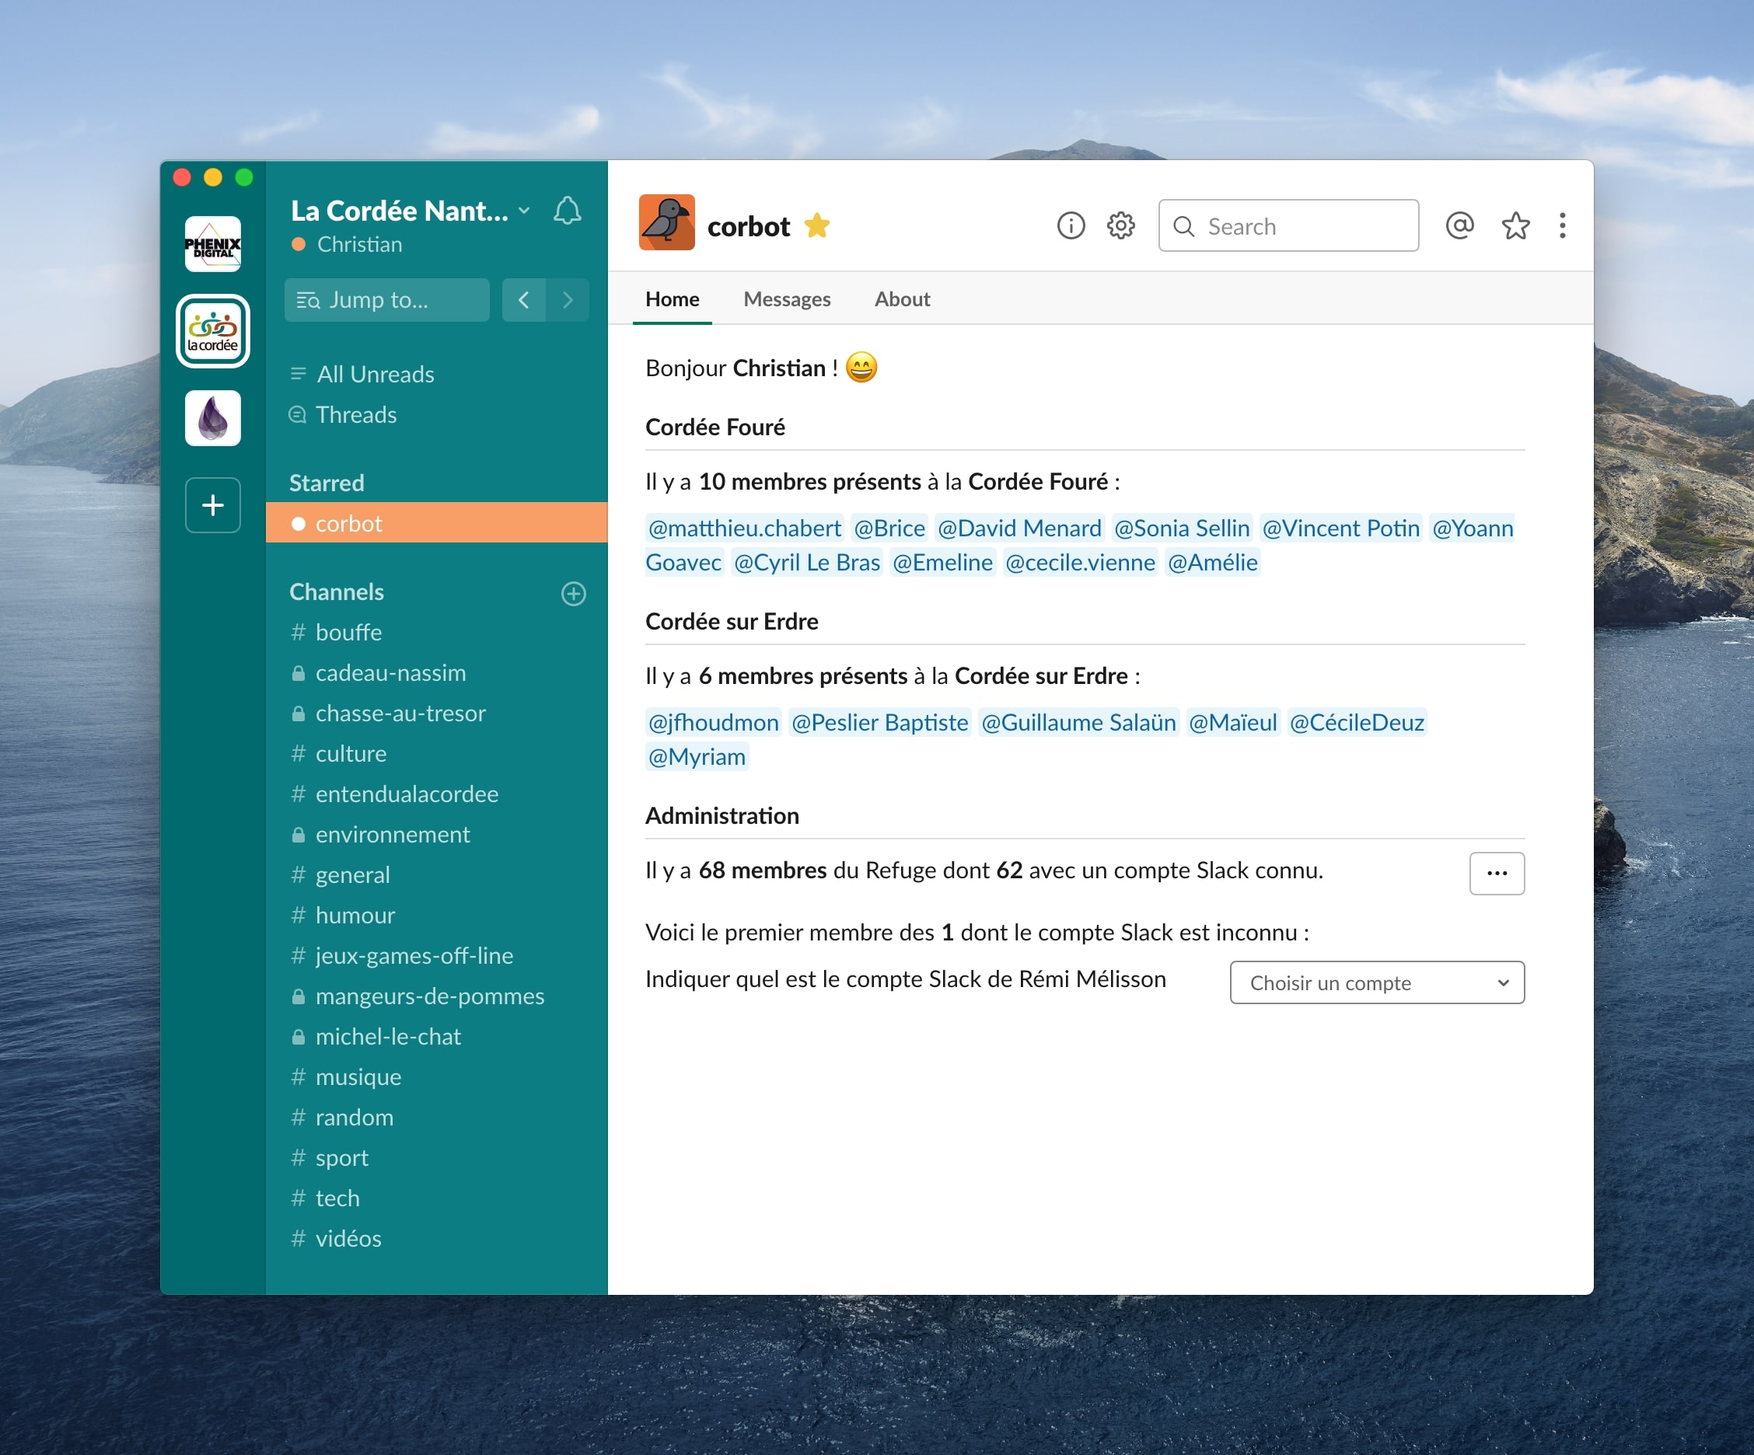
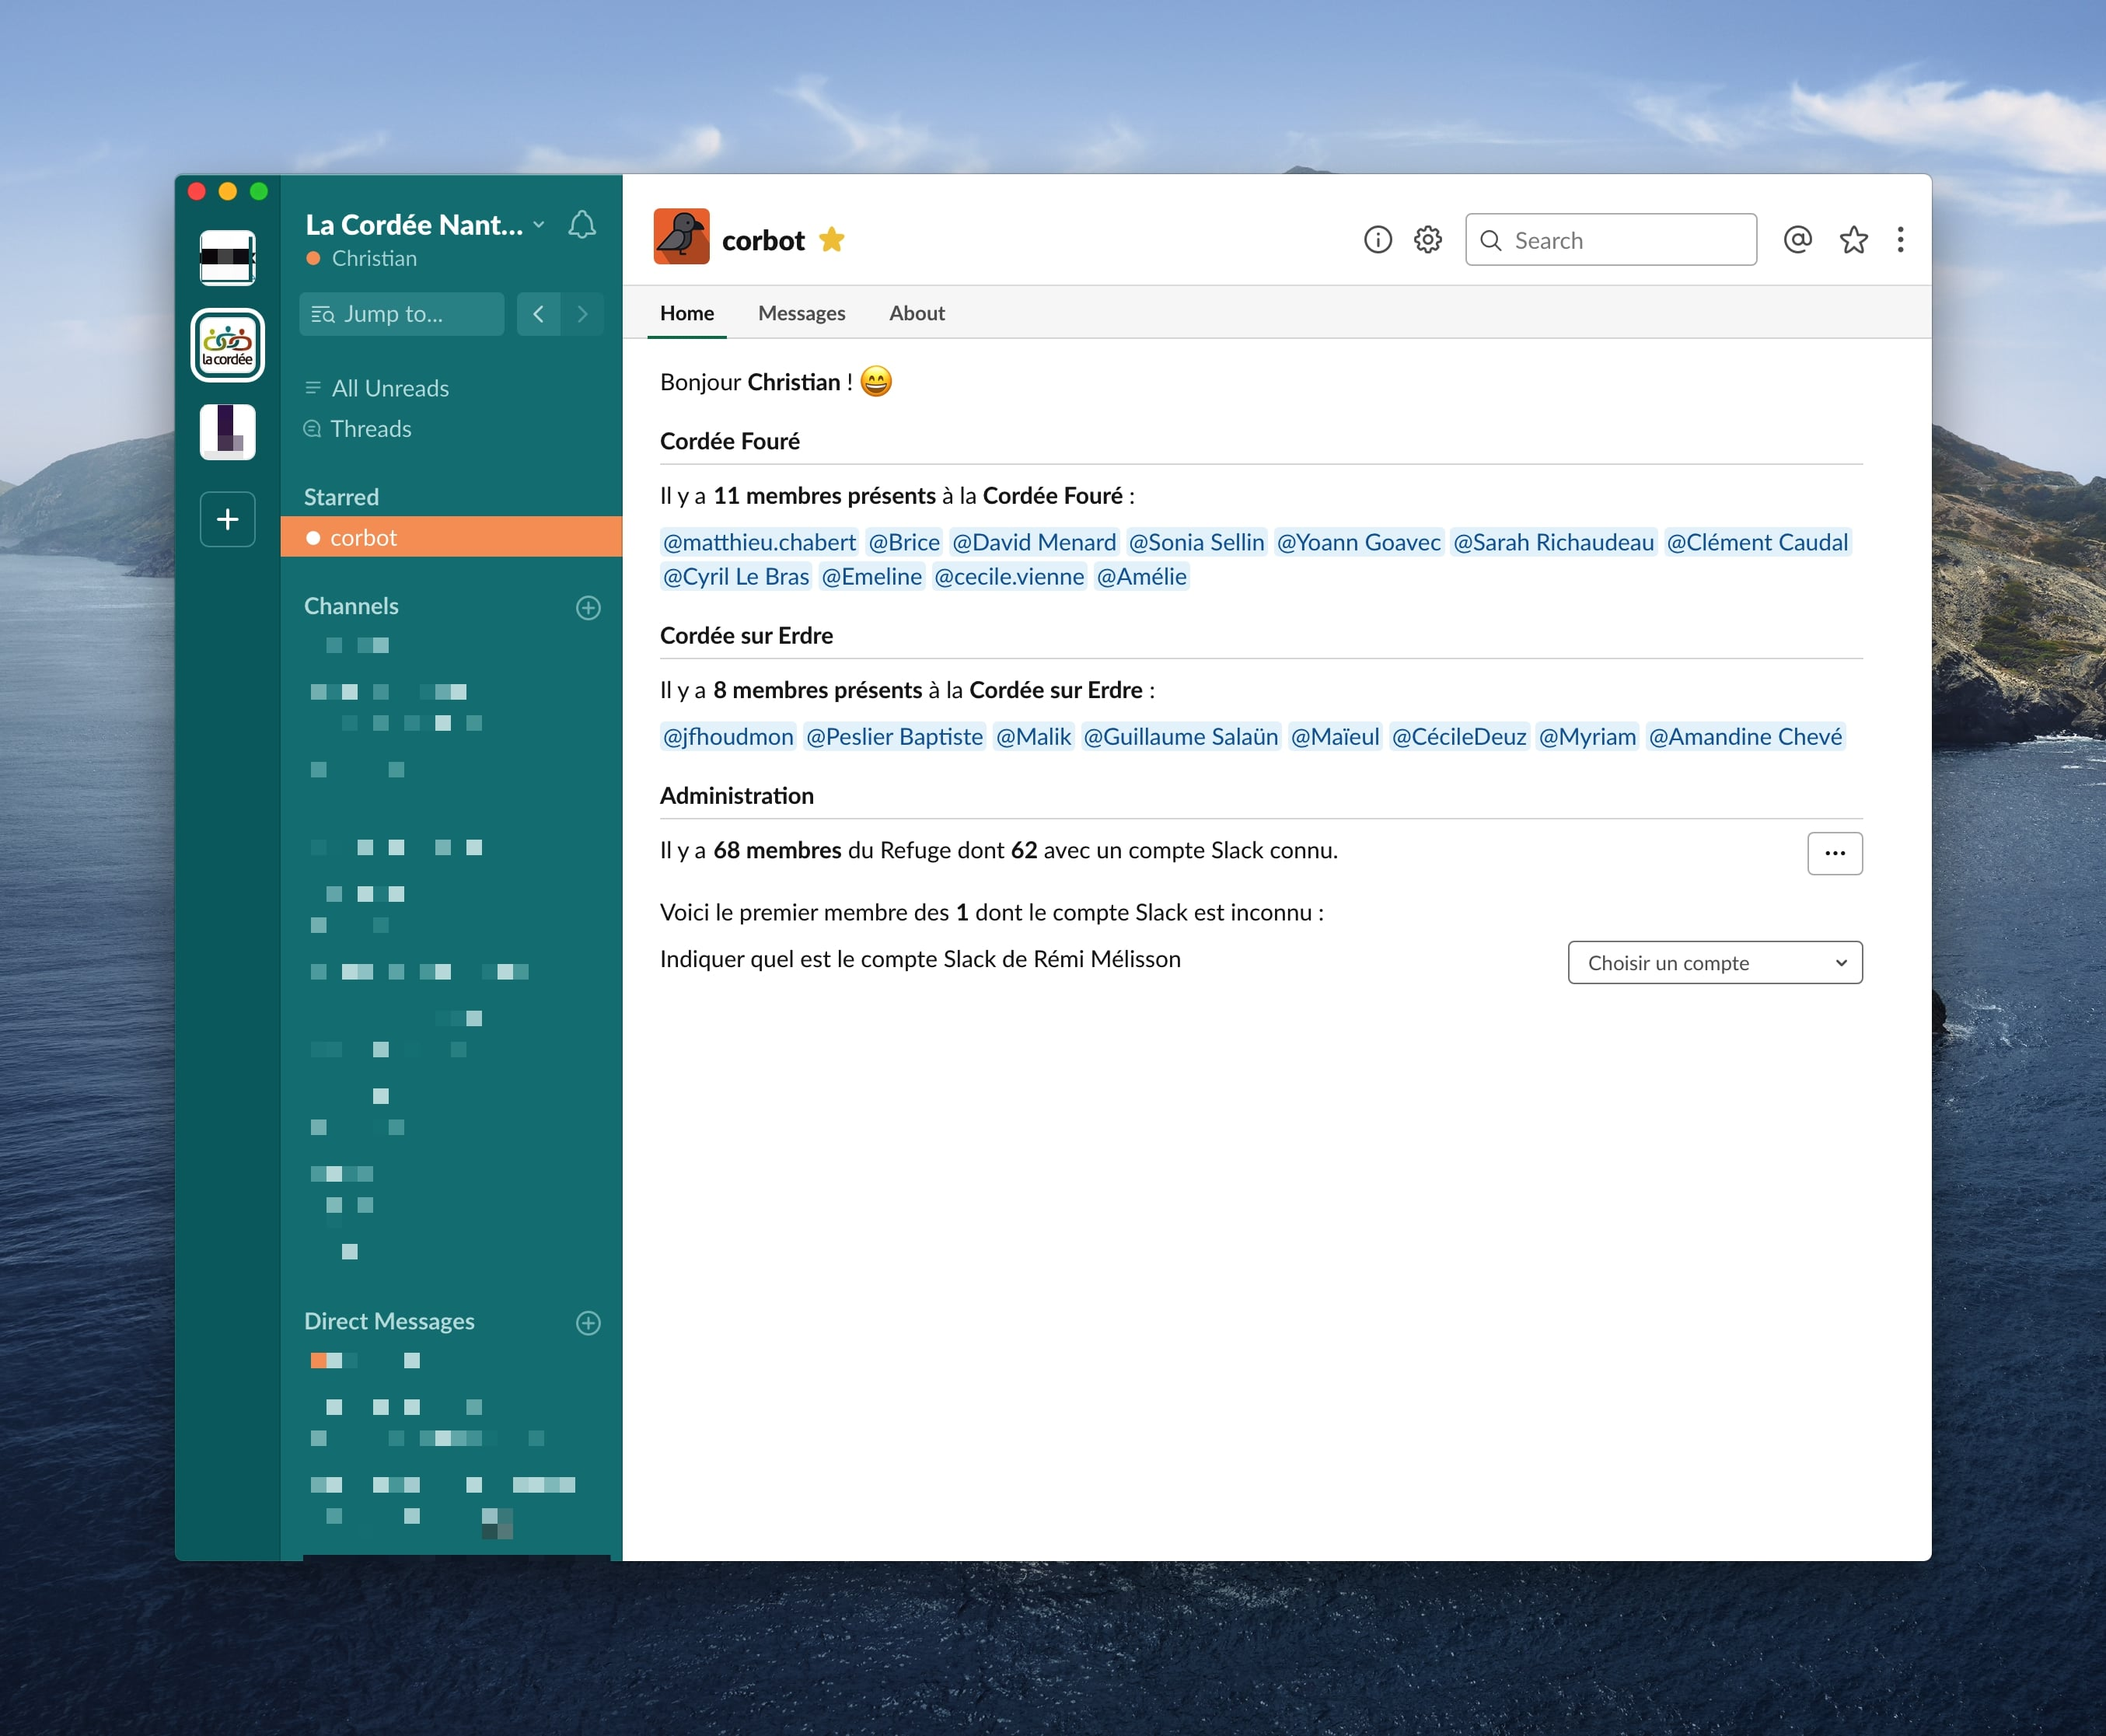
listing non slack users as well

Changed region(s): [[0.0, 0.0929, 1.0, 1.0], [0.4965, 0.1859, 0.5275, 0.2169], [0.3723, 0.9915, 0.4034, 1.0]]

diff --git a/lib/slack/page_builder.rb b/lib/slack/page_builder.rb
@@ -21,13 +21,13 @@ module Slack
     private
 
     def self.location_blocks(location_name, location_id)
-      user_slack_ids = Corbot::UserService.users_by_location_id_with_slack_id(location_id).map(&:slack_user_id)
+      users = Corbot::UserService.users_by_location_id(location_id)
       blocks = [
         title_blocks(location_name),
-        text_block("Il y a *#{n(user_slack_ids.count, "membre présent", "membres présents")}* à la *#{location_name}* :"),
+        text_block("Il y a *#{n(users.count, "membre présent", "membres présents")}* à la *#{location_name}* :"),
       ]
-      if user_slack_ids.any?
-        blocks = blocks + [text_block(user_slack_ids.map { |id| "<@#{id}>" }.join(" "))]
+      if users.any?
+        blocks = blocks + [text_block(users.map { |u| display_user(u) }.join(" "))]
       end
       blocks + [text_block("\n")]
     end
@@ -120,6 +120,14 @@ module Slack
           }
         end,
       }
+    end
+
+    def self.display_user(user)
+      if user.slack_user_id
+        "<@#{user.slack_user_id}>"
+      else
+        user.first_name
+      end
     end
 
     def self.n(n, singular, plural = nil)

diff --git a/lib/corbot/user_service.rb b/lib/corbot/user_service.rb
@@ -38,16 +38,8 @@ module Corbot
       Corbot::User.where(removed: false)
     end
 
-    def self.users_by_location_id_with_slack_id(location_id)
-      users
-        .where(current_location_id: location_id)
-        .where.not(slack_user_id: nil)
-    end
-
-    def self.users_by_location_id_without_slack_id(location_id)
-      users
-        .where(current_location_id: location_id)
-        .where(slack_user_id: nil)
+    def self.users_by_location_id(location_id)
+      users.where(current_location_id: location_id)
     end
 
     def self.users_without_slack_id
